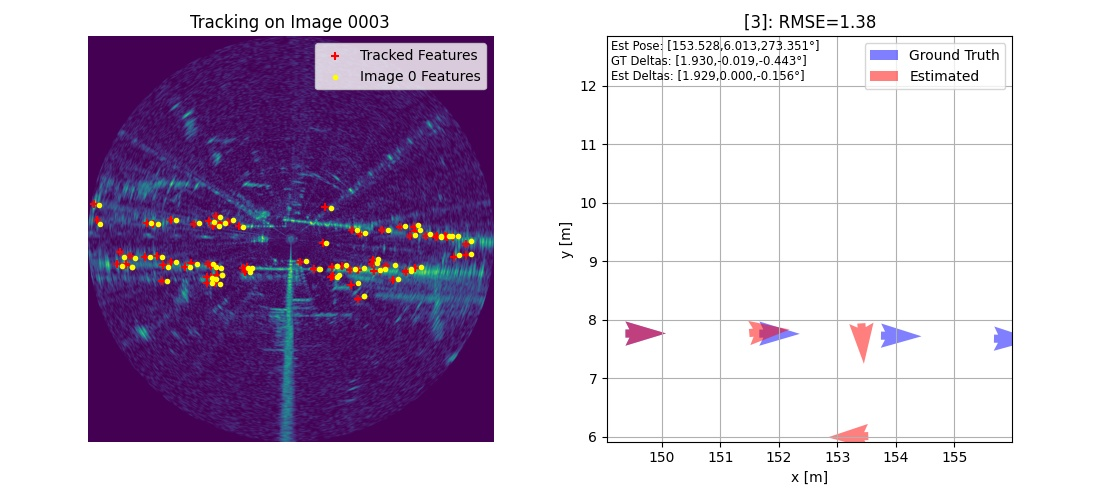
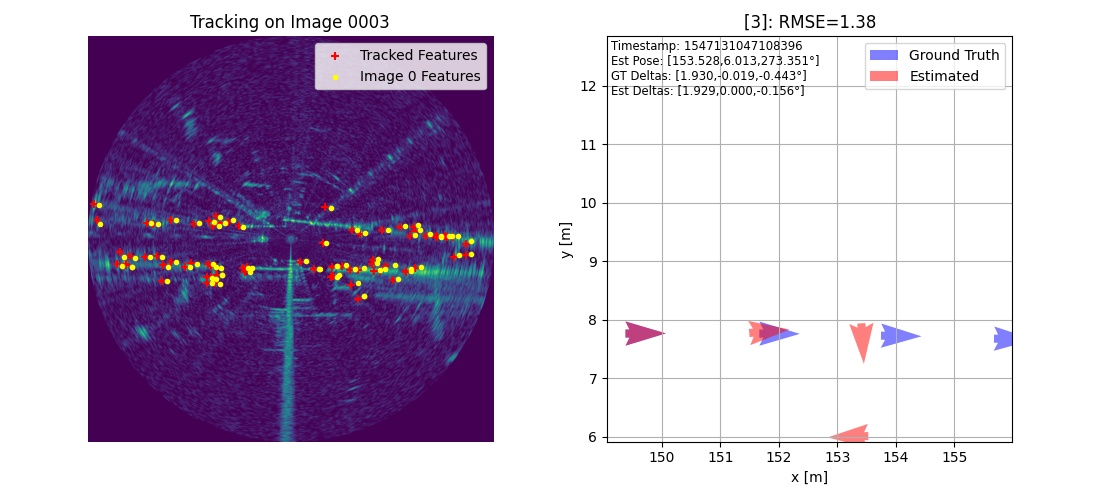
minor debugging print changes

Changed region(s): [[0.5564, 0.06, 0.7418, 0.21]]

diff --git a/RawROAMSystem.py b/RawROAMSystem.py
@@ -202,8 +202,8 @@ class RawROAMSystem():
         # Get timestamps for plotting etc
         currTimestamp = radarImgPathToTimestamp(imgPathArr[seqInd])
 
-        # debugging information with current poses and relative changes
-        # these are in DEGREES for debugging purposes
+        # Debugging information with current poses and deltas
+        # Thetas are in DEGREES for readibiliy
         gt_deltas = gtTraj.getGroundTruthDeltasAtTime(currTimestamp)
         gt_deltas[2] = np.rad2deg(gt_deltas[2])
         est_deltas = convertRandHtoDeltas(R, h)
@@ -211,17 +211,16 @@ class RawROAMSystem():
         est_pose = estTraj.poses[-1]
         est_pose[2] = np.rad2deg(est_pose[2])
 
-        print(f"GT Deltas: {f_arr(gt_deltas, th_deg=True)}")
-        print(f"EST Deltas: {f_arr(est_deltas, th_deg=True)}")
-        print(f"EST Pose: {f_arr(est_pose, th_deg=True)}")
+        info = f'Timestamp: {currTimestamp}\n'
+        info += f'Est Pose: {f_arr(estTraj.poses[-1], th_deg=True)}\n'
+        info += f'GT Deltas: {f_arr(gt_deltas, th_deg=True)}\n'
+        info += f'Est Deltas: {f_arr(est_deltas, th_deg=True)}'
+        print(info)
 
         # Plot Trajectories
         toSaveTrajPath = os.path.join(trajSavePath, f"{seqInd:04d}.jpg") \
              if save else None
 
-        info = f'Est Pose: {f_arr(estTraj.poses[-1], th_deg=True)}\n'
-        info += f'GT Deltas: {f_arr(gt_deltas, th_deg=True)}\n'
-        info += f'Est Deltas: {f_arr(est_deltas, th_deg=True)}'
         plotGtAndEstTrajectory(gtTraj,
                                estTraj,
                                title=f'[{seqInd}]',
